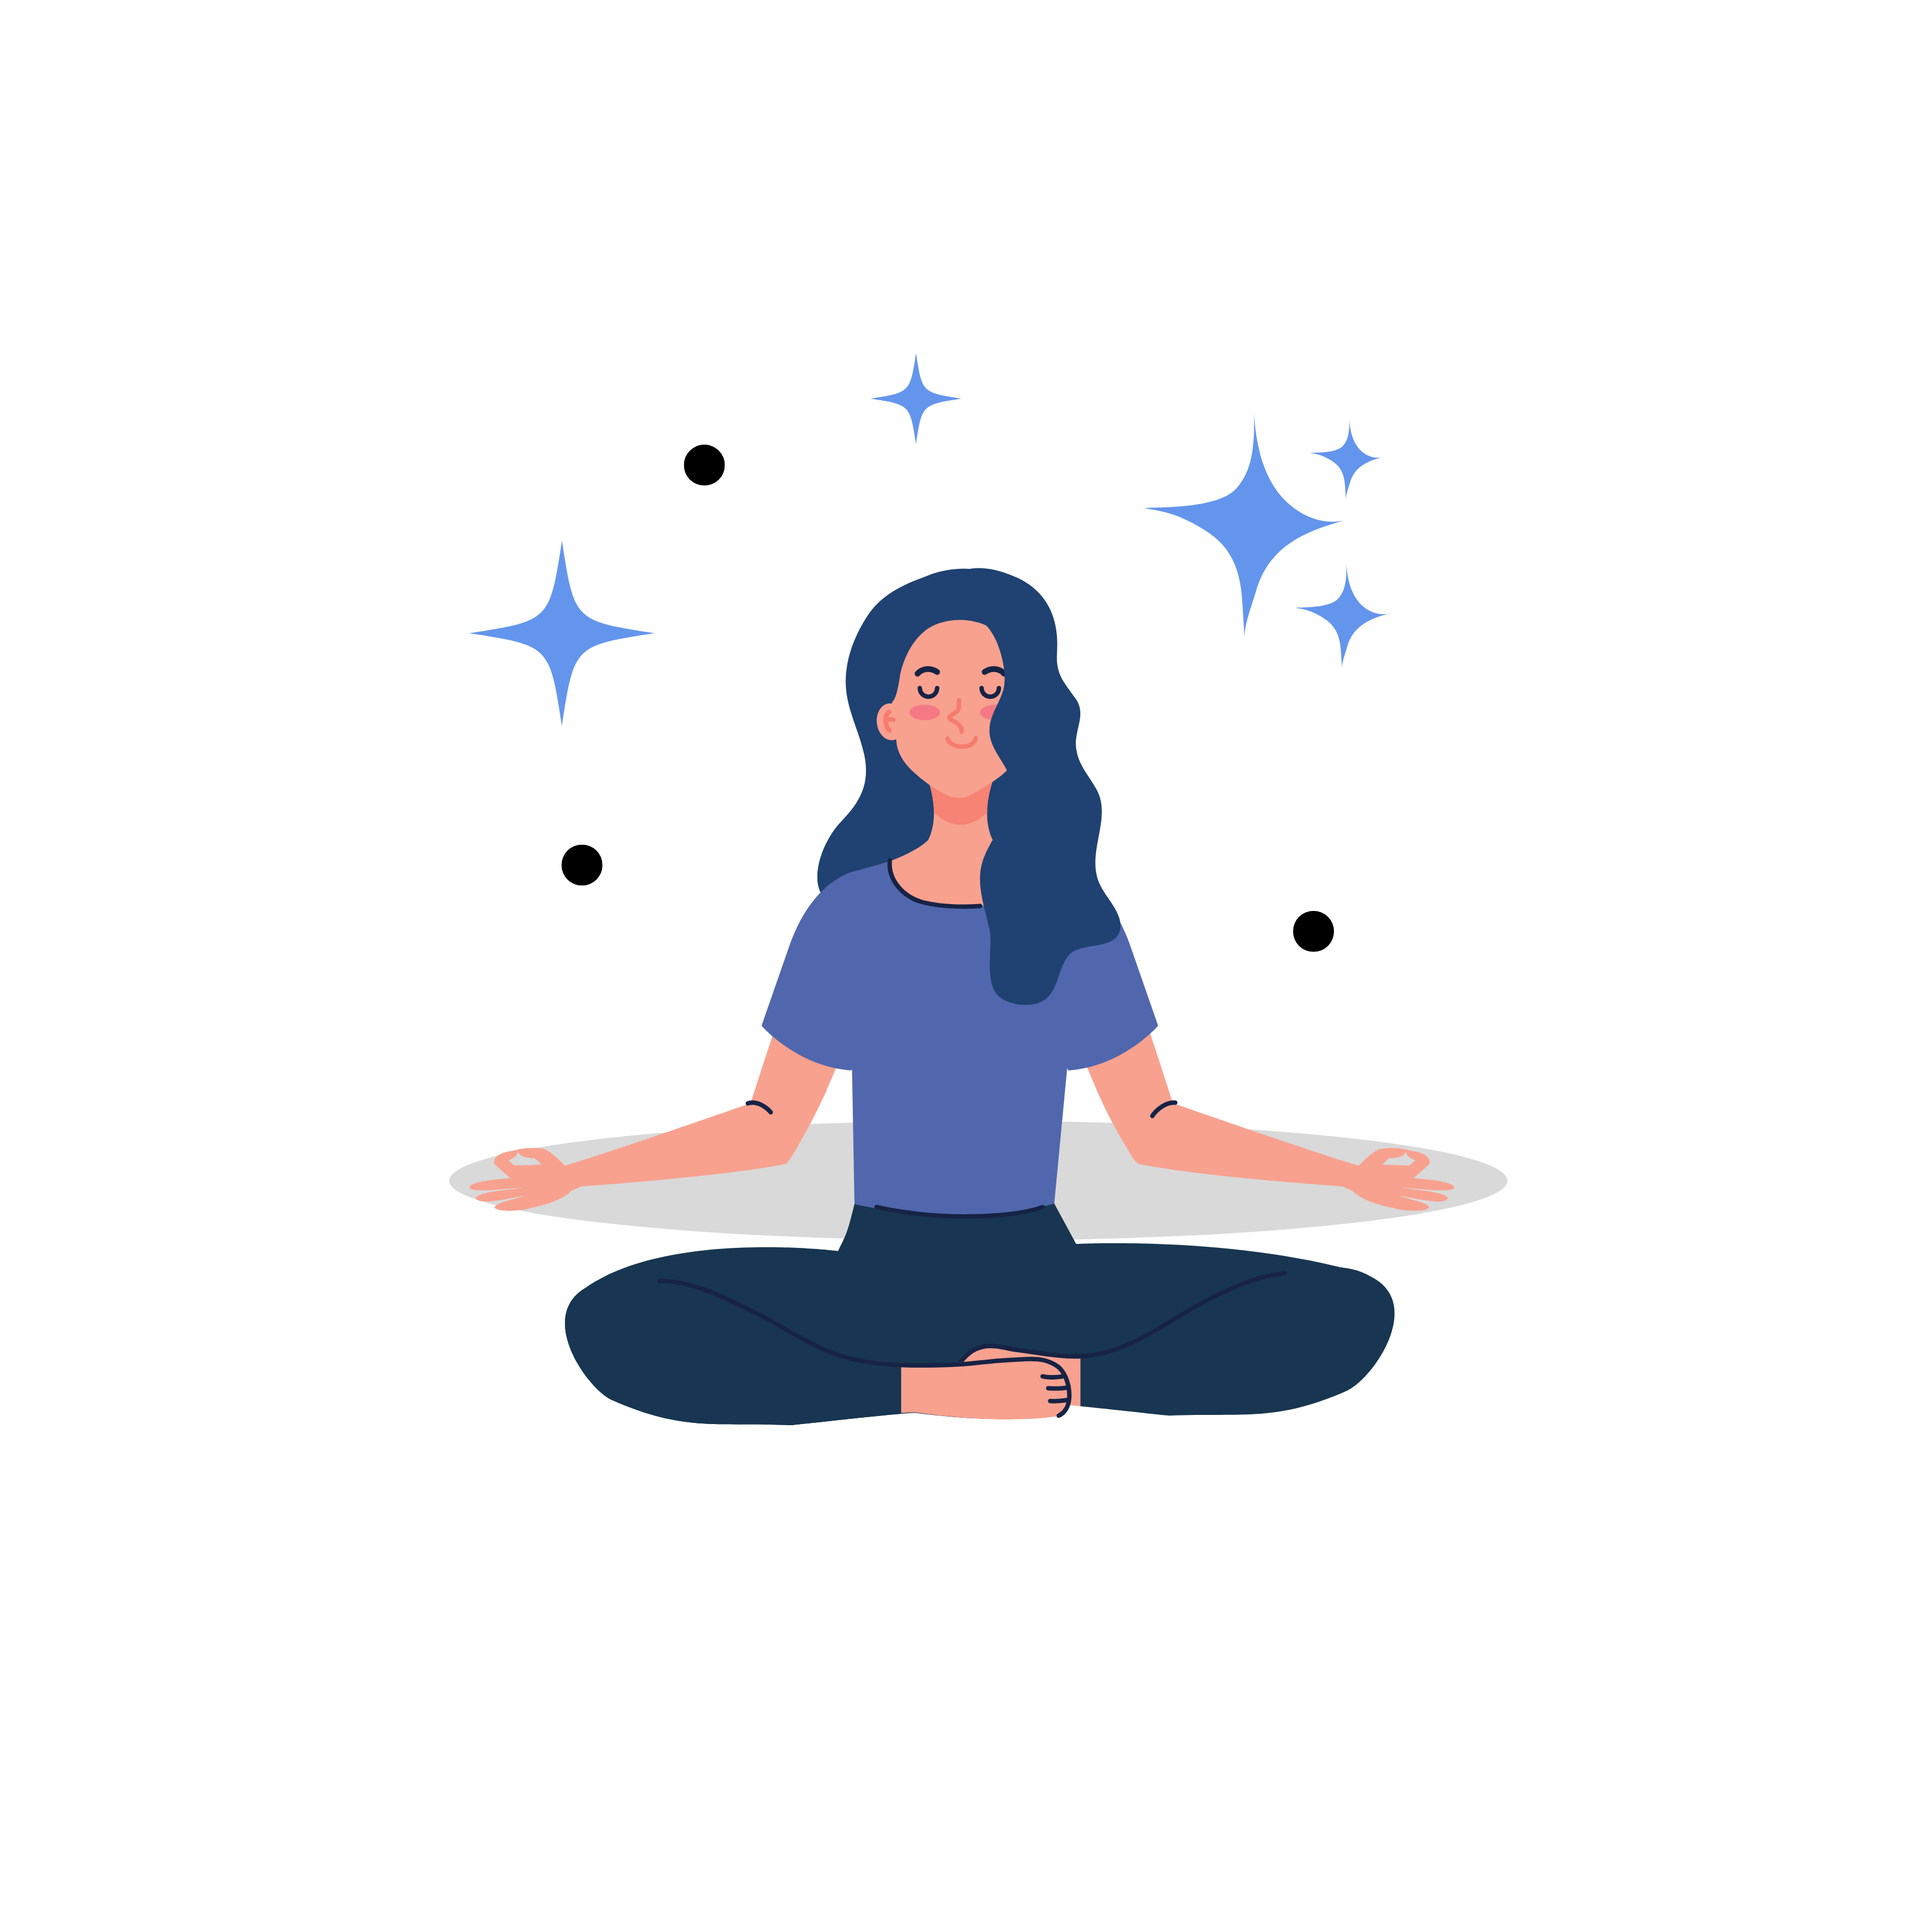
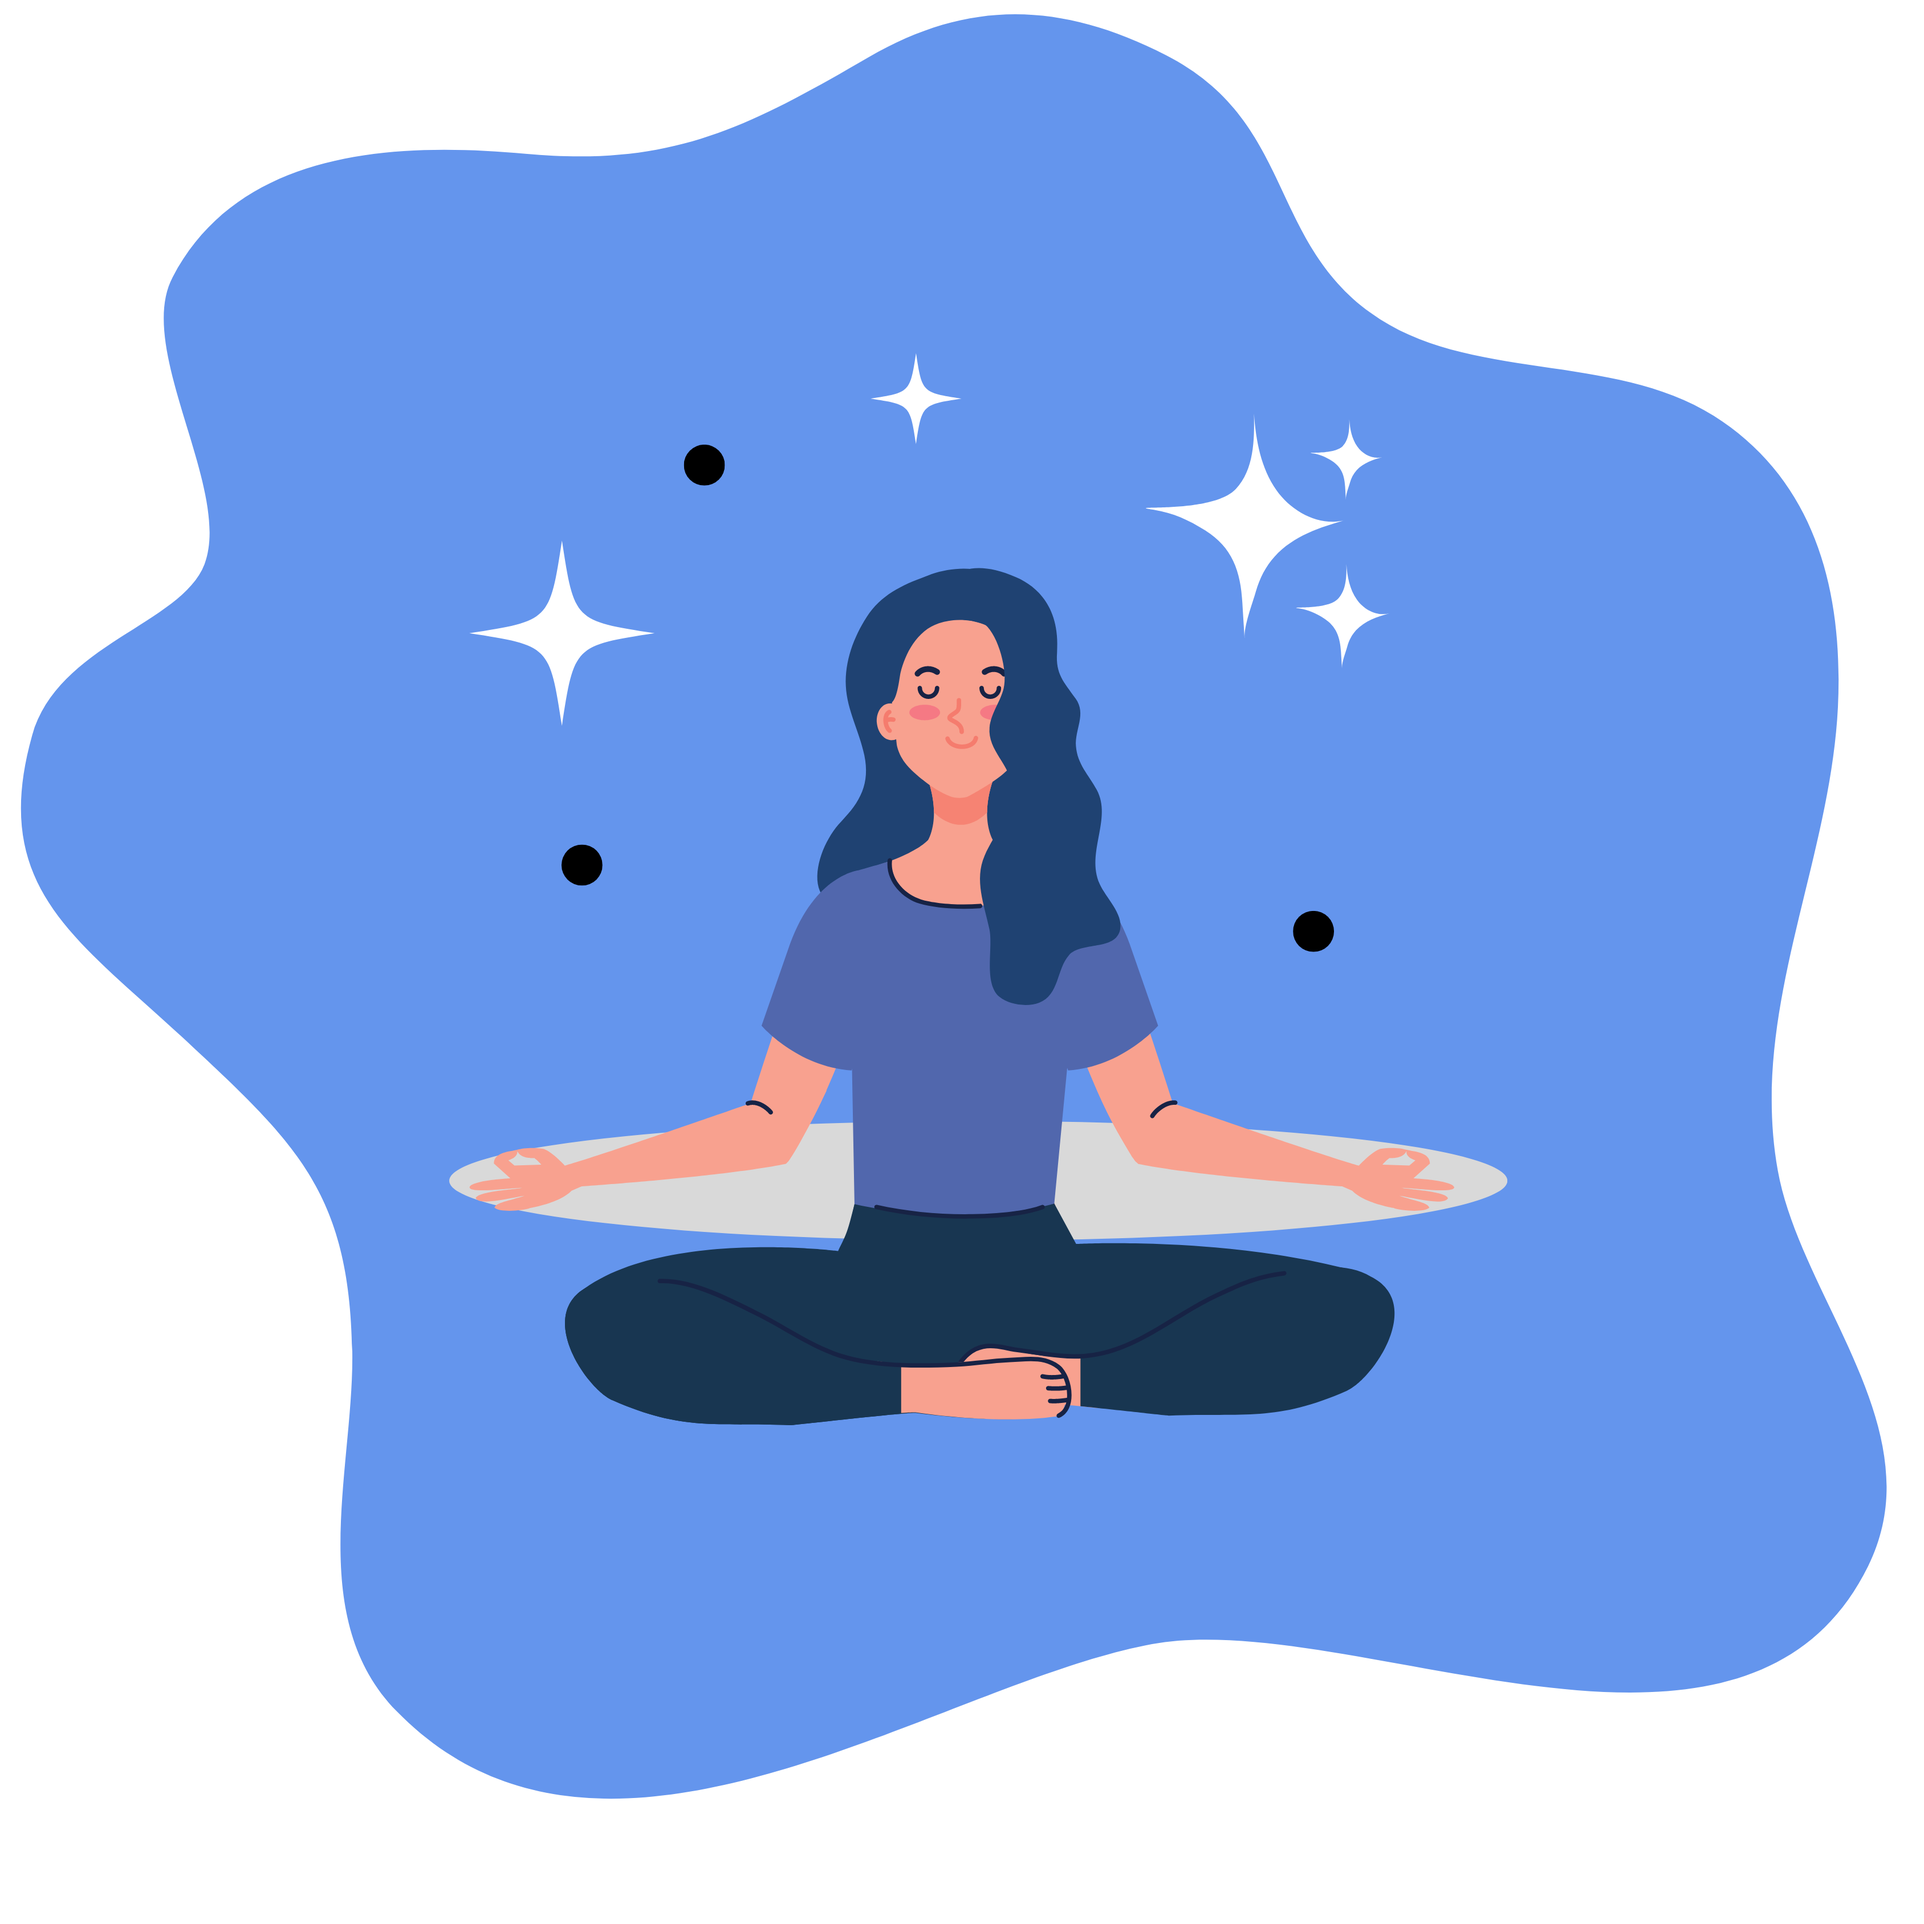
Update

diff --git a/index.html b/index.html
@@ -84,7 +84,7 @@
                 </div>
                 <div
                     class="c-img col-12 col-lg-5 align-content-center order-1 order-lg-2 justify-content-center text-center">
-                    <img src="assets/image/hero2.png" alt="" class="hero-image text-center m-0">
+                    <img src="assets/image/hero.png" alt="" class="hero-image text-center m-0">
                 </div>
             </div>
         </div>
